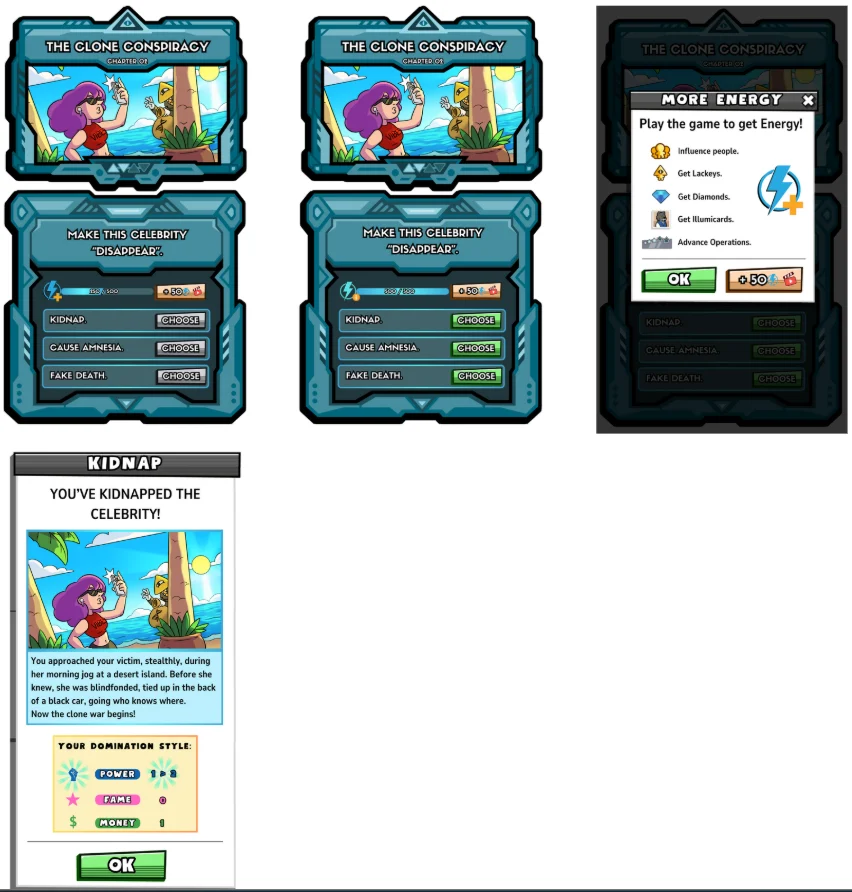
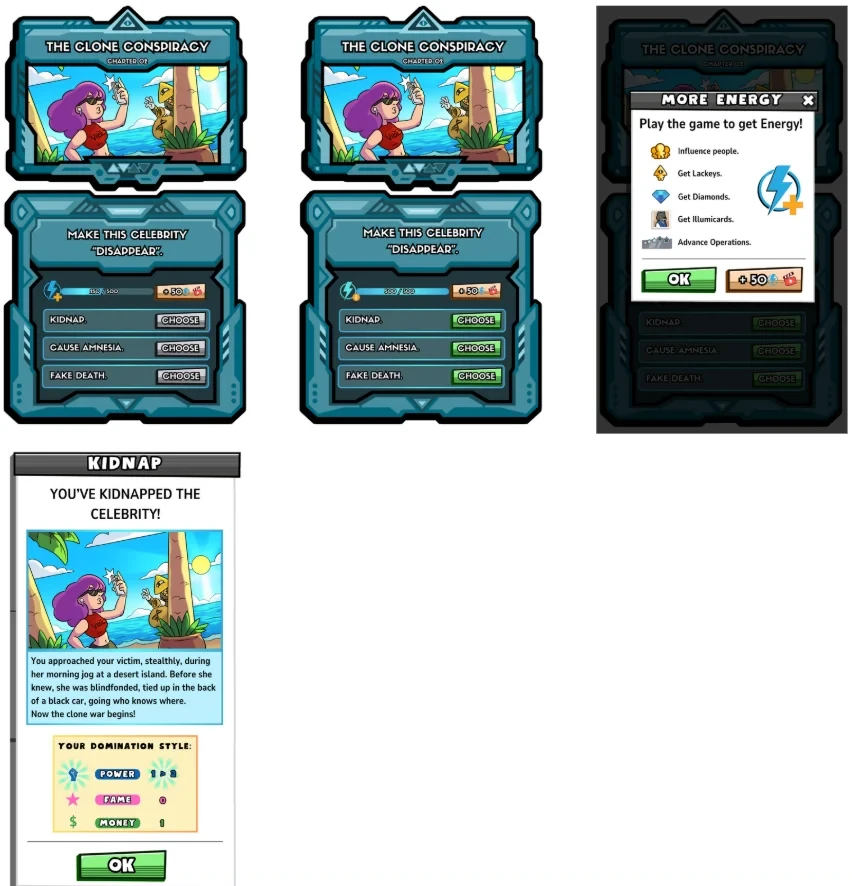
Future You postcard in Adventures; no grey line under the Illuminati side story
- Knomee Adventures, "Inputs that fit the question": a fourth phone, the
  Future You postcard (Sarah's sample filled in), captured from the live
  prototype in the same device frame and knomee branding as the other
  three, with their exact transparent corners.
- We Are Illuminati: the side-story image is cropped 6px shorter
  (892 -> 886) to drop the grey line along its bottom edge.

diff --git a/assets/js/content.js b/assets/js/content.js
@@ -907,7 +907,7 @@ window.CONTENT = {
         {
           title: { en: 'Inputs that fit the question', pt: 'Inputs que combinam com a pergunta' },
           body: { en: 'The Confidence slider has a sun that gets brighter as you drag it. Future You asks people to place their plans on a timeline and ends with a postcard to their future self.', pt: 'O slider do Confidence tem um sol que brilha mais conforme você arrasta. O Future You pede para a pessoa colocar os planos numa linha do tempo e termina com um cartão-postal para o eu do futuro.' },
-          img: ['assets/img/k-conf-slider.webp', 'assets/img/k-fy-orb.webp', 'assets/img/k-fy-road.webp'], kind: 'phones'
+          img: ['assets/img/k-conf-slider.webp', 'assets/img/k-fy-orb.webp', 'assets/img/k-fy-road.webp', 'assets/img/k-fy-postcard.webp'], kind: 'phones'
         },
         {
           title: { en: 'A voice shortcut powered by AI', pt: 'Um atalho de voz com IA' },
